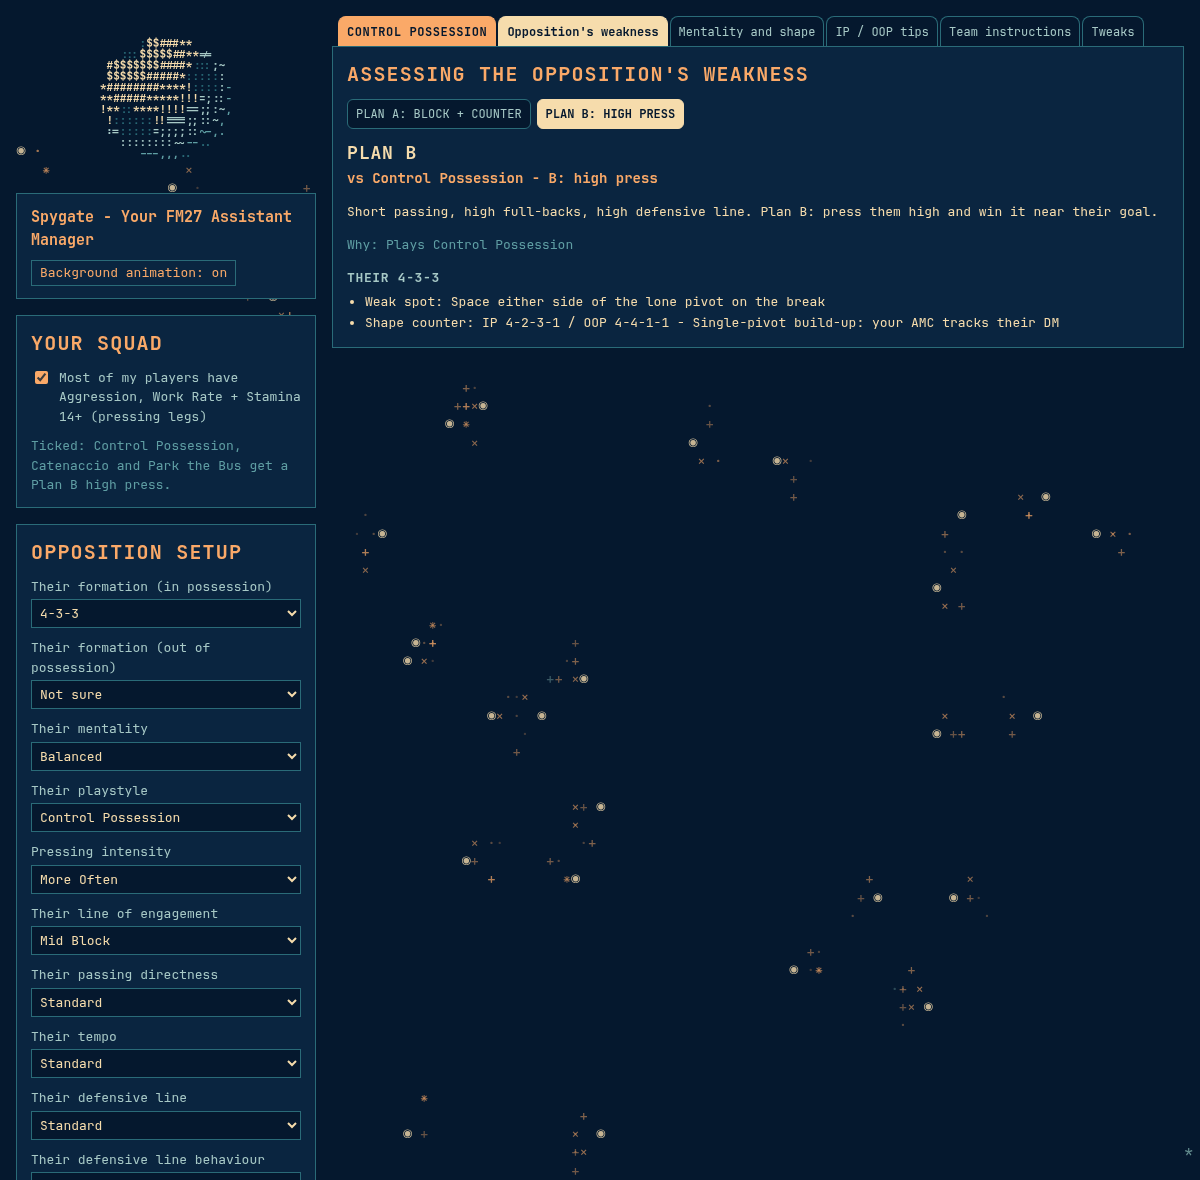
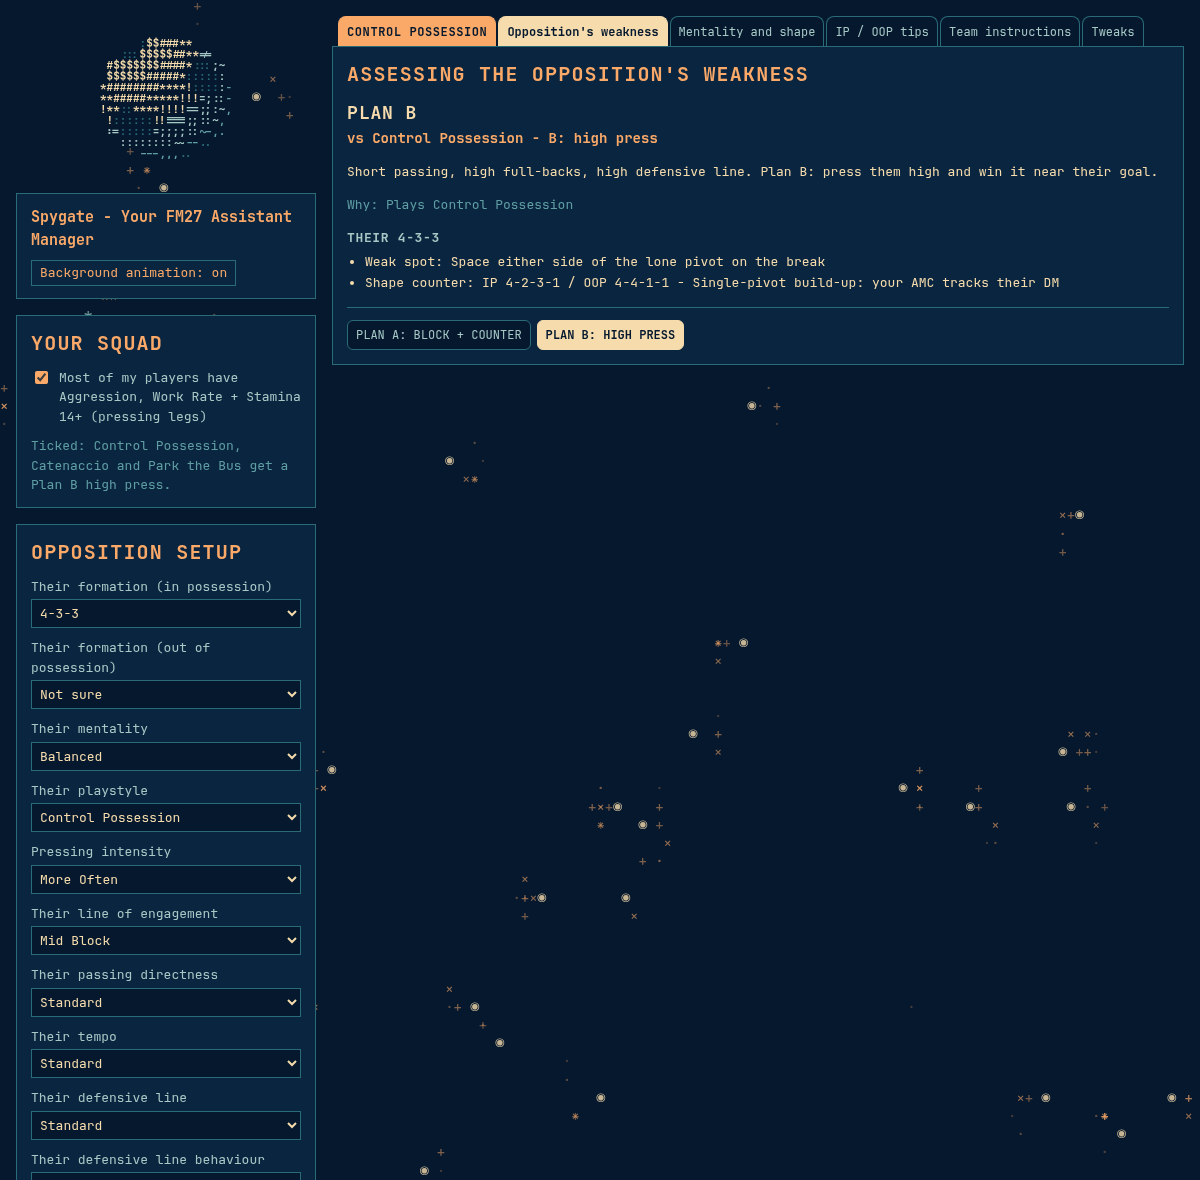
Plan A / Plan B buttons at the bottom of the first tile, selected one highlighted

diff --git a/index.html b/index.html
@@ -33,7 +33,7 @@ th,td{text-align:left;padding:3px 8px;border-bottom:1px solid var(--line)}th{col
 .tab{flex:0 0 auto;border:1px solid var(--line);border-bottom:0;border-radius:8px 8px 0 0;background:var(--bg);color:var(--soft);padding:6px 8px;margin-bottom:-1px;white-space:nowrap;font-size:12px}
 .tab:hover{color:var(--ink)}
 .planab{margin:0 0 2px;font-size:18px;font-weight:700;letter-spacing:.05em;color:var(--ink)}
-.abpick{display:flex;gap:6px;flex-wrap:wrap;margin:6px 0 10px}
+.abpick{display:flex;gap:6px;flex-wrap:wrap;margin:14px 0 2px;padding-top:12px;border-top:1px solid var(--line)}
 .pill{border:1px solid var(--line);border-radius:6px;background:var(--bg);color:var(--soft);padding:5px 8px;font-size:12px}
 .pill:hover{color:var(--ink)}
 .pill.on{background:var(--ink);border-color:var(--ink);color:var(--bg);font-weight:700}
@@ -460,8 +460,7 @@ function render(){
   // Each tile is a tab; the orange label names the playstyle being countered (theirs, or the best guess when 'Not sure').
   const tiles=[
     ['weak',"Opposition's weakness",`<h2 class="oppo">ASSESSING THE OPPOSITION&#39;S WEAKNESS</h2>
-    ${pair?`<div class="abpick">${pair.map(k=>`<button type="button" class="pill${k===r.plan?' on':''}" data-plan="${k}" aria-pressed="${k===r.plan}">${ab(k)}</button>`).join('')}</div>
-    <p class="planab">${r.plan===pair[0]?'PLAN A':'PLAN B'}</p>`:''}
+    ${pair?`<p class="planab">${r.plan===pair[0]?'PLAN A':'PLAN B'}</p>`:''}
     <h2>${pair?P.name:P.name.replace(' - A: ',' - ')}</h2>
     <p>${esc(pair?P.blurb:P.blurb.replace('Plan A: ',''))}</p>
     <p class="why">Why: ${r.reasons.length?esc(r.reasons.join(' · ')):'picked manually'}</p>
@@ -469,7 +468,8 @@ function render(){
     <ul>${li('Weak spot: '+r.shape.weak)}${li(`Shape counter: IP ${r.shape.ip} / OOP ${r.shape.oop} - ${r.shape.why}`)}${r.warns.map(w=>li(w,'warn')).join('')}</ul>
     ${r.oopC?`<h3>Their ${esc(o.oopShape)} out of possession</h3>
     <ul>${li('Weak spot: '+r.oopC.weak)}${li('Attack it with: '+r.oopC.ip)}${r.oopC.tips.map(t=>li(t)).join('')}
-      ${li('Added to your team instructions: '+Object.entries(r.oopC.set).map(([k,v])=>k+' '+v).join(', '),'why')}</ul>`:''}`],
+      ${li('Added to your team instructions: '+Object.entries(r.oopC.set).map(([k,v])=>k+' '+v).join(', '),'why')}</ul>`:''}
+    ${pair?`<div class="abpick">${pair.map(k=>`<button type="button" class="pill${k===r.plan?' on':''}" data-plan="${k}" aria-pressed="${k===r.plan}">${ab(k)}</button>`).join('')}</div>`:''}`],
     ['shape','Mentality and shape',`${big('YOUR MENTALITY AND SHAPE')}
     <div class="shape"><span>Team mentality</span><b>${esc(r.mine.mood)}</b><small>${ul(r.mine.moodWhy)}</small></div>
     <div class="shape"><span>In possession shape</span><b>${esc(r.mine.ip)}</b><small>${ul(r.mine.ipWhy)}</small></div>
